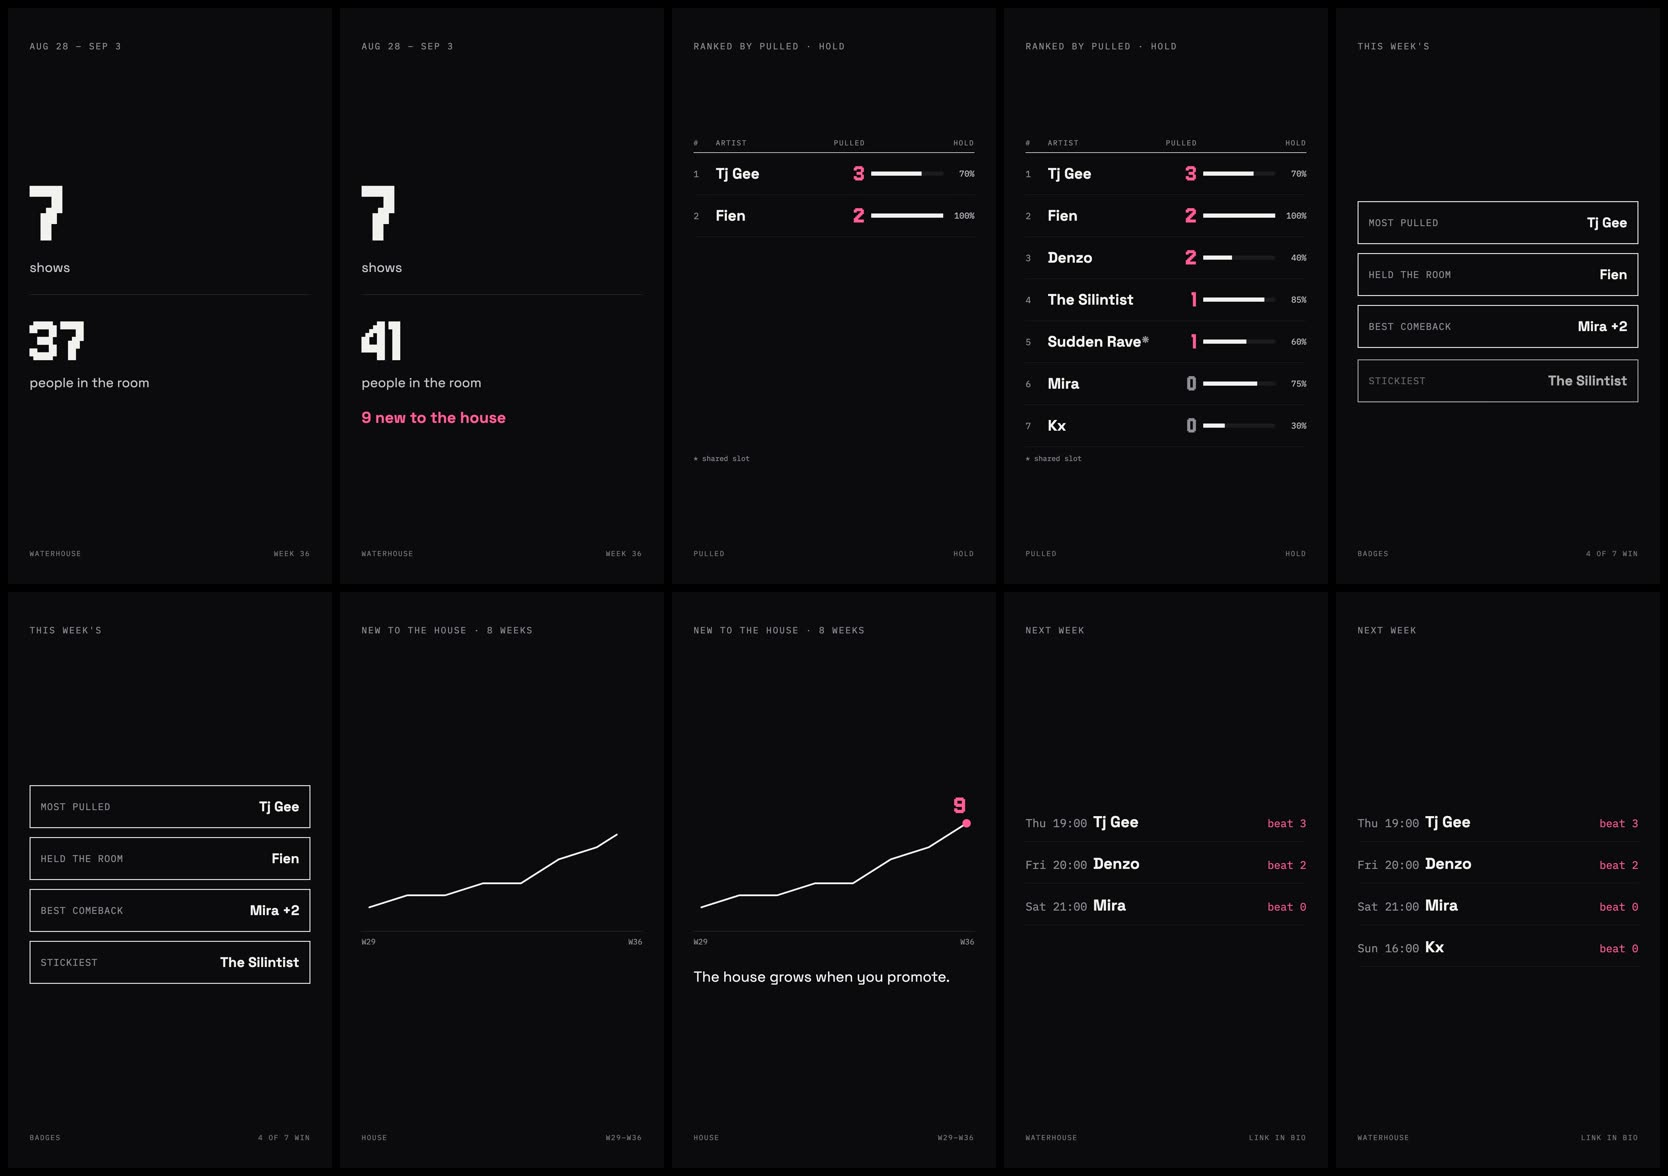
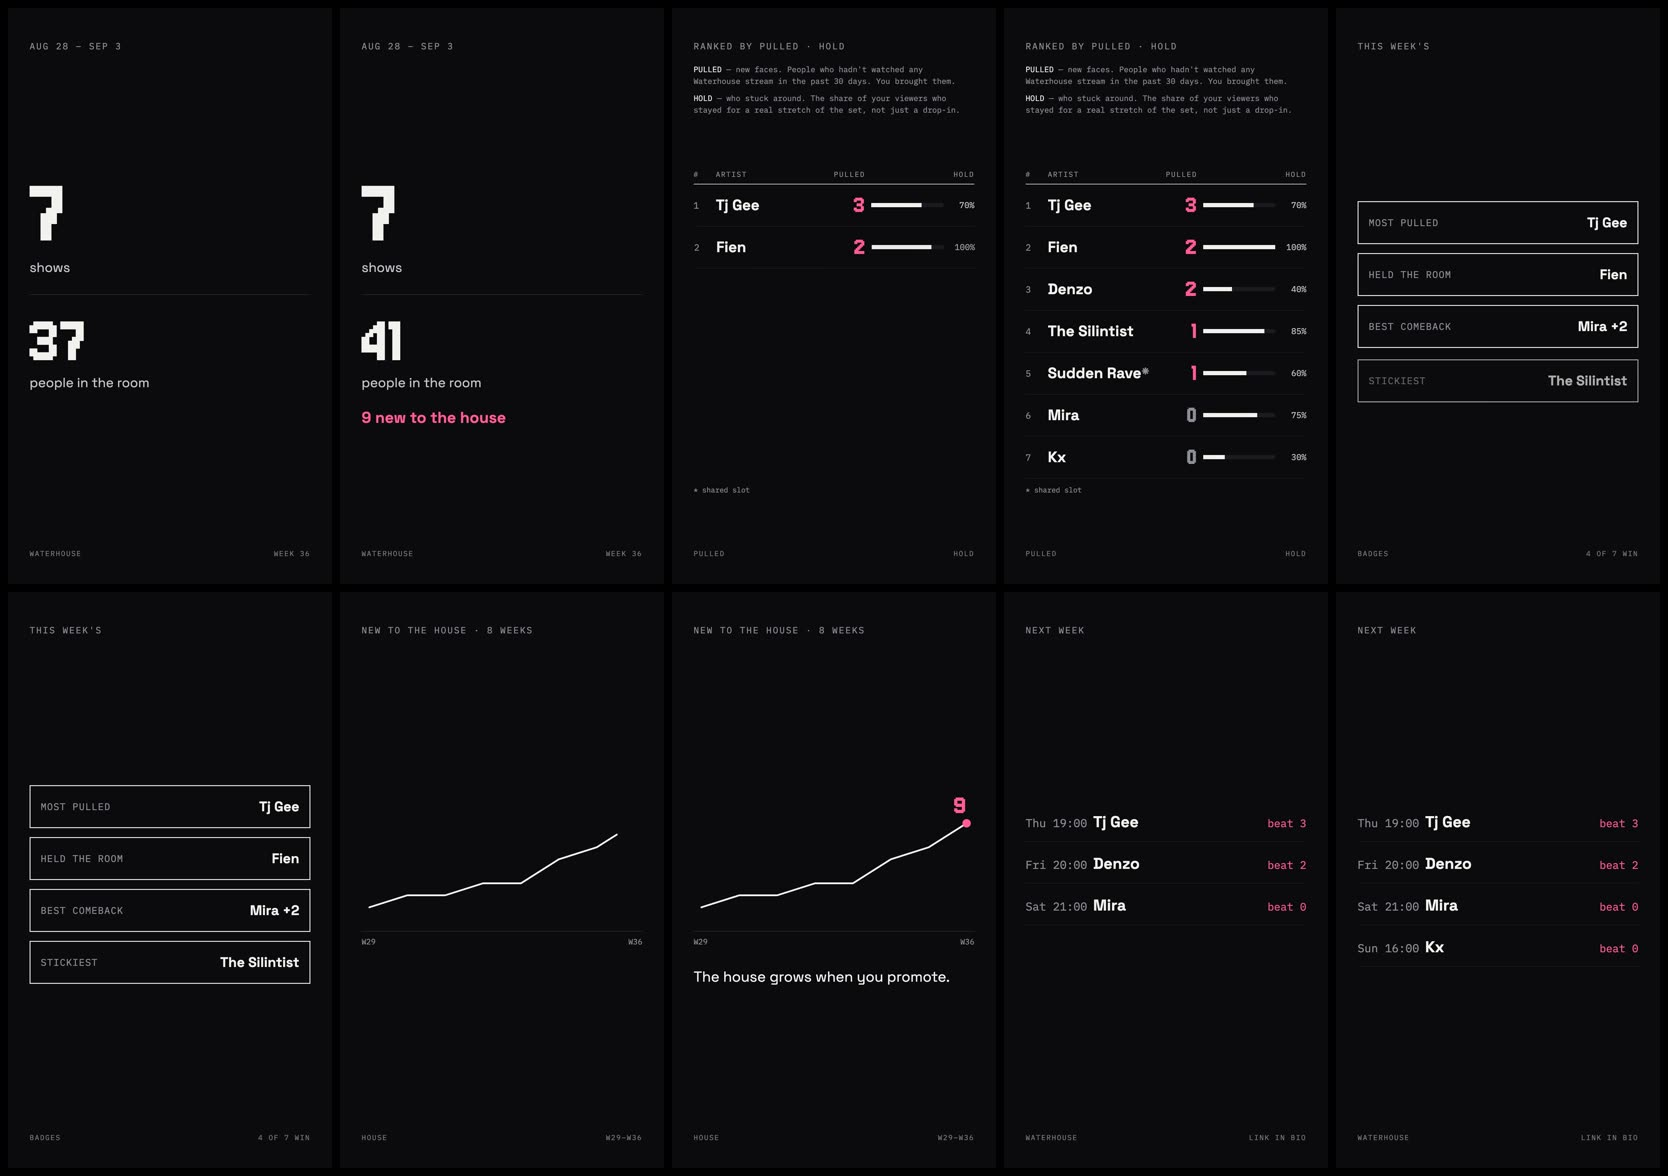
remotion-7: explain the two board columns in a legend
"Pulled" and "hold" are house vocabulary; the artist opening this on a
Monday has no reason to know either. Two mono lines under the header say
what each column counts, in their terms - the keyword in ink, the
sentence in grey.

The rows now wait 14 frames before the first one arrives, so the legend
is settled before anything moves under it. The stagger window shrinks by
the same 14 frames, which keeps the last row landing inside the beat
(eight rows go from 30 frames apart to 28). The table shifted down to
make room rather than giving up row height.

Claude-Session: https://claude.ai/code/session_01Q9DzKvQZzPp18EAo1CvNDq

Changed region(s): [[0.6235, 0.0612, 0.7794, 0.398], [0.4053, 0.0612, 0.5923, 0.2143], [0.4053, 0.1224, 0.4676, 0.1837]]

diff --git a/src/HouseWeekly.tsx b/src/HouseWeekly.tsx
@@ -64,7 +64,10 @@ const NEXT_LENGTH = 150; // 600-750 next week
 // Eight rows at one per 30 frames fills the board beat exactly. Past eight,
 // the whole board still has to land inside the same window, so the stagger
 // tightens instead of the board losing anyone.
-const BOARD_ROW_WINDOW = 210;
+// The legend under the header has to be settled before anything moves under
+// it, so the rows wait out its fade before the first one arrives.
+const BOARD_LEAD_IN = 14;
+const BOARD_ROW_WINDOW = BOARD_LENGTH - BOARD_LEAD_IN - 30;
 const BOARD_ROW_ANIM = 30;
 export const boardRowStagger = (rowCount: number): number =>
   Math.min(
@@ -388,8 +391,42 @@ const TheBoard: React.FC<Pick<HouseWeeklyProps, "rows">> = ({ rows }) => {
   // footnote. Height per row shrinks so a twelve-artist week still fits.
   const rowHeight = Math.min(140, Math.floor(1150 / Math.max(1, rows.length)));
 
+  // Two column headings are not self-explanatory to someone opening this on a
+  // phone on a Monday. The legend says what they mean in the artist's own
+  // terms, and lands before the board starts moving under it.
+  const legendIn = interpolate(frame, [0, 12], [0, 1], {
+    extrapolateLeft: "clamp",
+    extrapolateRight: "clamp",
+  });
+
   return (
     <Frame label="Ranked by pulled · hold" left="Pulled" right="Hold">
+      <div
+        style={{
+          marginTop: 36,
+          maxWidth: 900,
+          display: "flex",
+          flexDirection: "column",
+          gap: 18,
+          fontFamily: monoFont,
+          fontSize: 26,
+          lineHeight: 1.5,
+          color: GREY,
+          opacity: legendIn,
+        }}
+      >
+        <div>
+          <span style={{ color: INK }}>PULLED</span> — new faces. People who
+          hadn&apos;t watched any Waterhouse stream in the past 30 days. You
+          brought them.
+        </div>
+        <div>
+          <span style={{ color: INK }}>HOLD</span> — who stuck around. The share
+          of your viewers who stayed for a real stretch of the set, not just a
+          drop-in.
+        </div>
+      </div>
+
       <div
         style={{
           flex: 1,
@@ -433,7 +470,7 @@ const TheBoard: React.FC<Pick<HouseWeeklyProps, "rows">> = ({ rows }) => {
               key={`${row.artistName}-${i}`}
               row={row}
               rank={i + 1}
-              delay={i * stagger}
+              delay={BOARD_LEAD_IN + i * stagger}
               rowHeight={rowHeight}
             />
           ))}
